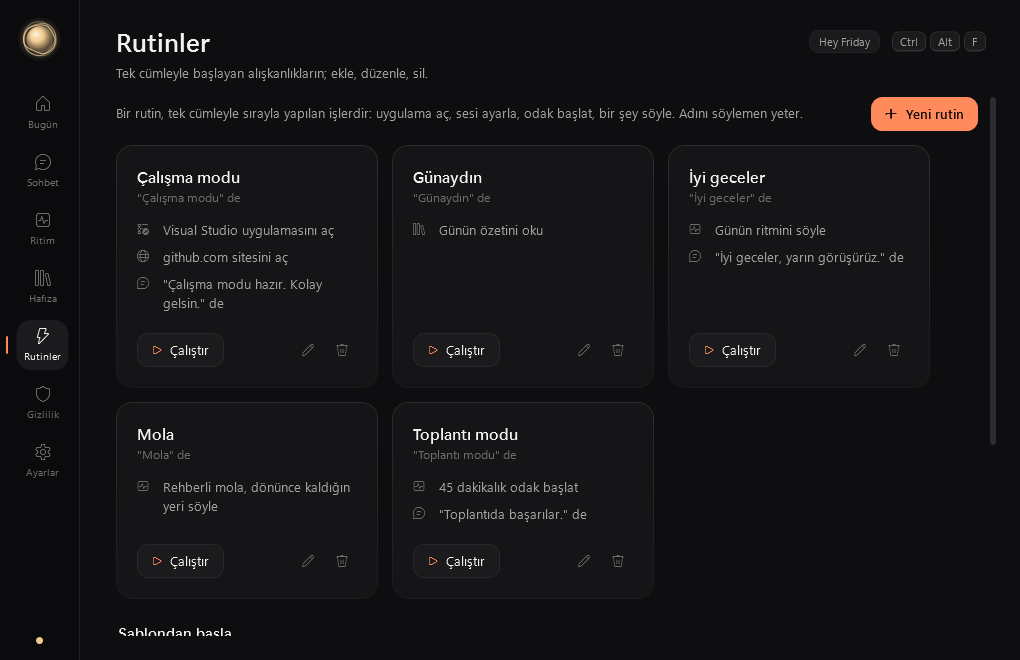
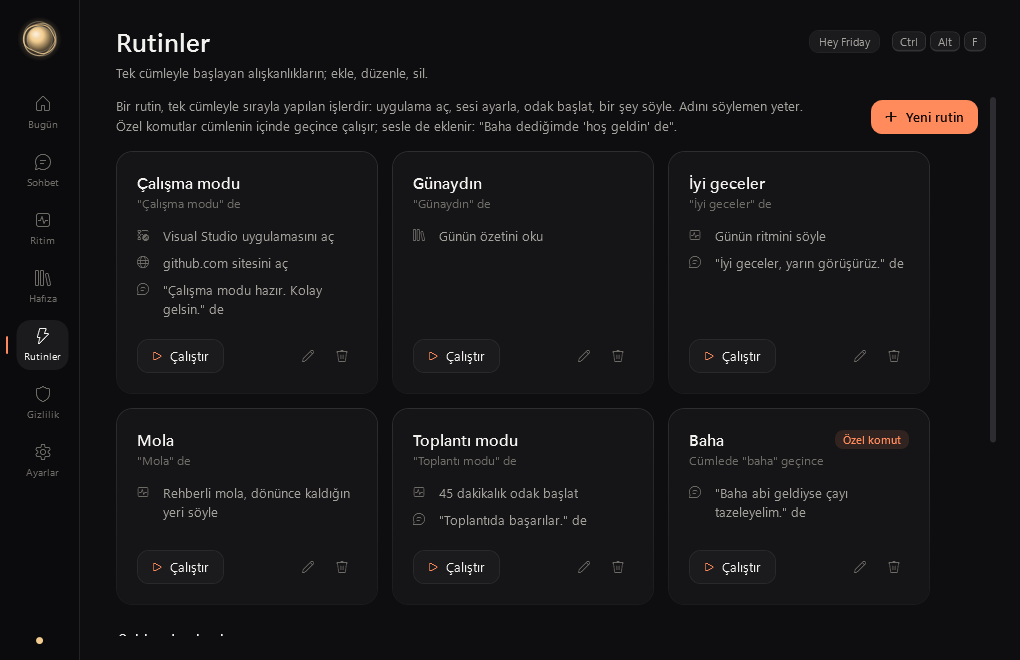
Document the status report, watchers and custom commands

diff --git a/README.md b/README.md
@@ -11,6 +11,11 @@ Friday, Windows için Türkçe konuşan kişisel bir sesli asistan. **"Hey Frida
 | **"Hey Friday"** | Elin klavyede değilken seslenmen yeterli. Model Friday için bu bilgisayarda eğitildi ve işlemcide çalışır; ses kaydedilmez. Türkçe aksanla ("Hey Fraydey") da tanır. Ayarlardan kapatılır. |
 | **Sohbetler** | Her konuşma ayrı bir sohbet olarak saklanır; başlığı ilk sorudan kendiliğinden çıkar. Sol listede Bugün, Dün, Bu hafta diye gruplanır; sabitle, yeniden adlandır, Markdown olarak kaydet ya da sil. Bütün sohbetlerde arama yapılır ("istanbul" yazınca "İstanbul" geçenler de bulunur). Eski bir sohbeti açıp kaldığı yerden sürdürebilirsin; Friday o sohbetin bağlamıyla devam eder. "Yeni sohbet", "konuyu değiştirelim" ya da "sohbeti temizle" demen de yeter. Bir süre konuşmazsan (varsayılan 30 dk) sonraki soru kendiliğinden yeni bir sohbet olur. |
 | **Hızlı komut kutusu** | **Ctrl+Alt+Space** ile her yerden küçük bir kutu açılır (Raycast ya da Spotlight gibi): yaz, Enter'a bas, kutu kapanır, cevap köşede görünür ve okunur. Yazdıkça rutinlerin, son sorduğun şeyler ve hazır komutlar süzülür; ok tuşlarıyla seç, Tab ile tamamla. |
+| **Durum raporu** | "Durum raporu" ya da "her şey yolunda mı?" deyince yarım saniyede: işlemci, bellek, ekran kartı sıcaklığı, dolmak üzere olan disk, sıradaki hatırlatma, bugün ne kadar çalıştığın, bekleyen nöbetler. Bir sorun yoksa "Her şey yolunda." |
+| **Nöbetçiler** | "İndirme bitince haber ver", "render bitince haber ver" (işlemci ya da ekran kartı yoğun çalıştıktan sonra boşa çıkınca), "internet gelince söyle", "ekran kartı 85 dereceyi geçerse uyar". Friday o an konuşuyorsa haber kaybolmaz, sırası gelince söylenir. "Neyi bekliyorsun?", "nöbeti iptal et". |
+| **Bilgisayar kontrolü** | "Bilgisayarı kilitle", "uyku moduna al", "ekranı kapat", "masaüstünü göster", "karanlık moda geç", "ekran görüntüsü al", "30 dakika sonra bilgisayarı kapat" (en az 1 dakika sonraya kurulur), "kapatmayı iptal et". |
+| **Özel komutlar** | "Baha dediğimde 'çayı tazeleyelim' de", "ders çalışıyorum deyince Spotify'ı aç". Sonra cümlende o söz geçince ("Baha geldi") Friday söyler ya da açar. Rutinler sayfasından düzenlenir. |
+| **Küçük işler** | "Beni yarın 7'de uyandır", "kronometreyi başlat / kaç oldu / durdur", "yazı tura at", "iki zar at", "1 ile 100 arasında bir sayı tut". "Teşekkürler" ya da "bu kadar" deyince kısa bir karşılık verip dinlemeyi bırakır. Ayarlardan bir hitap seçersen ("patron") ara sıra öyle seslenir. |
 | **Bugün ekranı** | Panel açılınca günün saatine göre selam, hava, yaklaşan hatırlatmalar ve tarihler, son notlar ve ritim özeti. İlk açılışta kısa bir tanışma: adın, şehrin, istersen başka bir yapay zekânın hafızası. |
 | **Hatırlatıcı** | "Yarın 9'da doktoru hatırlat", "akşam 8'de ilacımı hatırlat", "pazartesi 10:30'da toplantıyı hatırlat". Friday kapansa da kaybolmaz; kapalıyken kaçırılanları açılışta söyler. "Hatırlatmalarım neler?", "doktor hatırlatmasını iptal et". |
 | **Sesli notlar** | "Not al: süt ve ekmek", "notlarımı oku". Notlar D:\Friday\data\notes.md'de, Not Defteri'yle de açılır. |
@@ -50,7 +55,7 @@ ya da Ctrl+Alt+F ─►  modeller uyuyorsa yüklenmeye başlar (sen konuşurken 
                 Whisper Large v3 Turbo, GPU (Vulkan)          → "yarın ankara'da hava nasıl"
                      │
                      ▼
-                Gemma 4 (Ollama, yerel) + 29 araç             → hava_durumu(sehir: "Ankara")
+                Gemma 4 (Ollama, yerel) + 32 araç, nöbetçiler             → hava_durumu(sehir: "Ankara")
                      │   ▲                                       │
                      │   └──── araç sonucu ◄─────────────────────┘
                      ▼
@@ -197,7 +202,9 @@ Panelin **Ayarlar** bölümünden (kısayollar, Windows açılışında başlatm
 
 | Ayar | Varsayılan | Açıklama |
 |---|---|---|
-| `UserName` | boş | Sana nasıl hitap edeceği |
+| `UserName` | boş | Adın |
+| `AddressAs` | boş | Hitap ("patron", "Kürşat Bey"); ara sıra kullanılır |
+| `Triggers` | boş | Özel komutlar: cümlede bu söz geçince çalışacak adımlar (`{"baha": ["soyle:Çayı tazeleyelim."]}`) |
 | `Personality` | `esprili` | `esprili`, `sade` ya da `resmi` |
 | `Hotkey` | `Ctrl+Alt+F` | `Ctrl`/`Alt`/`Shift`/`Win` + tuş; panelden değiştirince hemen geçerli olur |
 | `QuickAskHotkey` | `Ctrl+Alt+Space` | Hızlı komut kutusu; boş bırakılırsa kapalı |
@@ -228,6 +235,7 @@ Panelin **Ayarlar** bölümünden (kısayollar, Windows açılışında başlatm
 - Ritim koçu yalnızca Windows'un tuttuğu "son klavye/fare kullanımı" zamanını okur; tuşlar, ekran ve pencere içerikleri okunmaz. Moladan önce yalnızca öndeki pencerenin başlığı hatırlanır. Günlük süreler `D:\Friday\data\rhythm` altında, 90 gün tutulur.
 - Dışarı yalnızca şunlar çıkar ve hepsi gizlilik defterine yazılır: Azure açıksa okunacak cevap metni; hava durumu sorulursa şehir adı (Open-Meteo); açmasını istediğin siteler ve aramalar (tarayıcın üzerinden); "Güncellemeleri denetle"ye basarsan GitHub'daki son sürüm numarası sorgusu.
 - Sohbetler, hafıza ve hatırlatmalar Ayarlar › Verilerin bölümünden tek tıkla (onayla) kalıcı olarak silinir.
+- "Ekran görüntüsü al" görüntüyü yalnızca `D:\Friday\data\captures` altına kaydeder. "İnternet gelince haber ver" nöbeti sürerken 10 sn'de bir 1.1.1.1'e ping atar; bu da deftere yazılır. Durum raporu ve nöbetler yalnızca sistem sayaçlarını ve `nvidia-smi`'yi okur.
 
 ## Geliştirme
 
